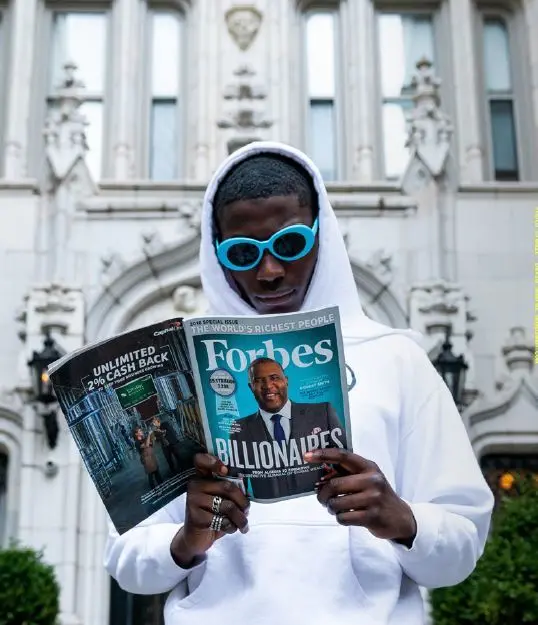
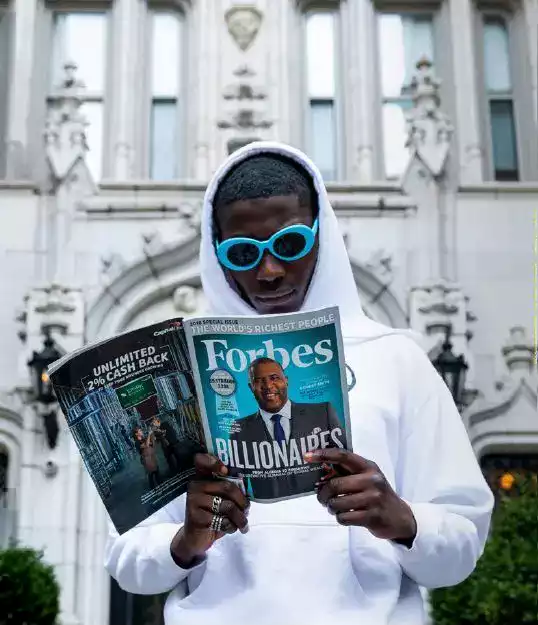
Increase performance

diff --git a/components/navBar/NavBar.tsx b/components/navBar/NavBar.tsx
@@ -37,11 +37,11 @@ const NavBar: FunctionComponent<{}> = () => {
     }
     return (
         <>
-            <div ref={navElement} className=" fixed shadow-md  py-2 z-50  top-0 opacity-0 left-0 right-0 bg-white">
+            <div ref={navElement} className=" fixed shadow-md  py-2 z-50  top-0  left-0 right-0 bg-white">
                 <div className="container mx-auto">
                     {/* logo */}
                     <div className="float-left">
-                        <Image placeholder='blur' blurDataURL='/download.jpg' priority width={50} height={50} quality={70} src={vercel} alt="Logo" />
+                        <Image placeholder='blur' blurDataURL='/download-min.jpg' priority width={50} height={50} quality={70} src={vercel} alt="Logo" />
                     </div>
                     {/* item nav */}
                     <div className={` ${styles.itemNav} items-center pt-3 sx:hidden md:flex`}>

diff --git a/pages/index.tsx b/pages/index.tsx
@@ -61,7 +61,7 @@ const Home: NextPage = () => {
           </h2>
         </div>
         {/*  */}
-        <HeroSection src='/download.jpg'
+        <HeroSection src='/download-min.jpg'
           infoTitle='From Montreal to Lille, France. A creative leap over the Atlantic.'
           subTitle='hello'
           textBtn='view project' to='/' />
@@ -87,7 +87,7 @@ const Home: NextPage = () => {
         {/*  */}
         <BgTitleAnimation keyUnique={'2'} words={['a', 'c', 't', 'i', 'v', 'a', 't', 'i', 'o', 'n']} dir={'rtl'} />
         <div ref={rowRef1}>
-          <HeroSection src='/download.jpg'
+          <HeroSection src='/download-min.jpg'
             infoTitle='From Montreal to Lille, France. A creative leap over the Atlantic.'
             subTitle='hello'
             textBtn='view project' to='/' />
